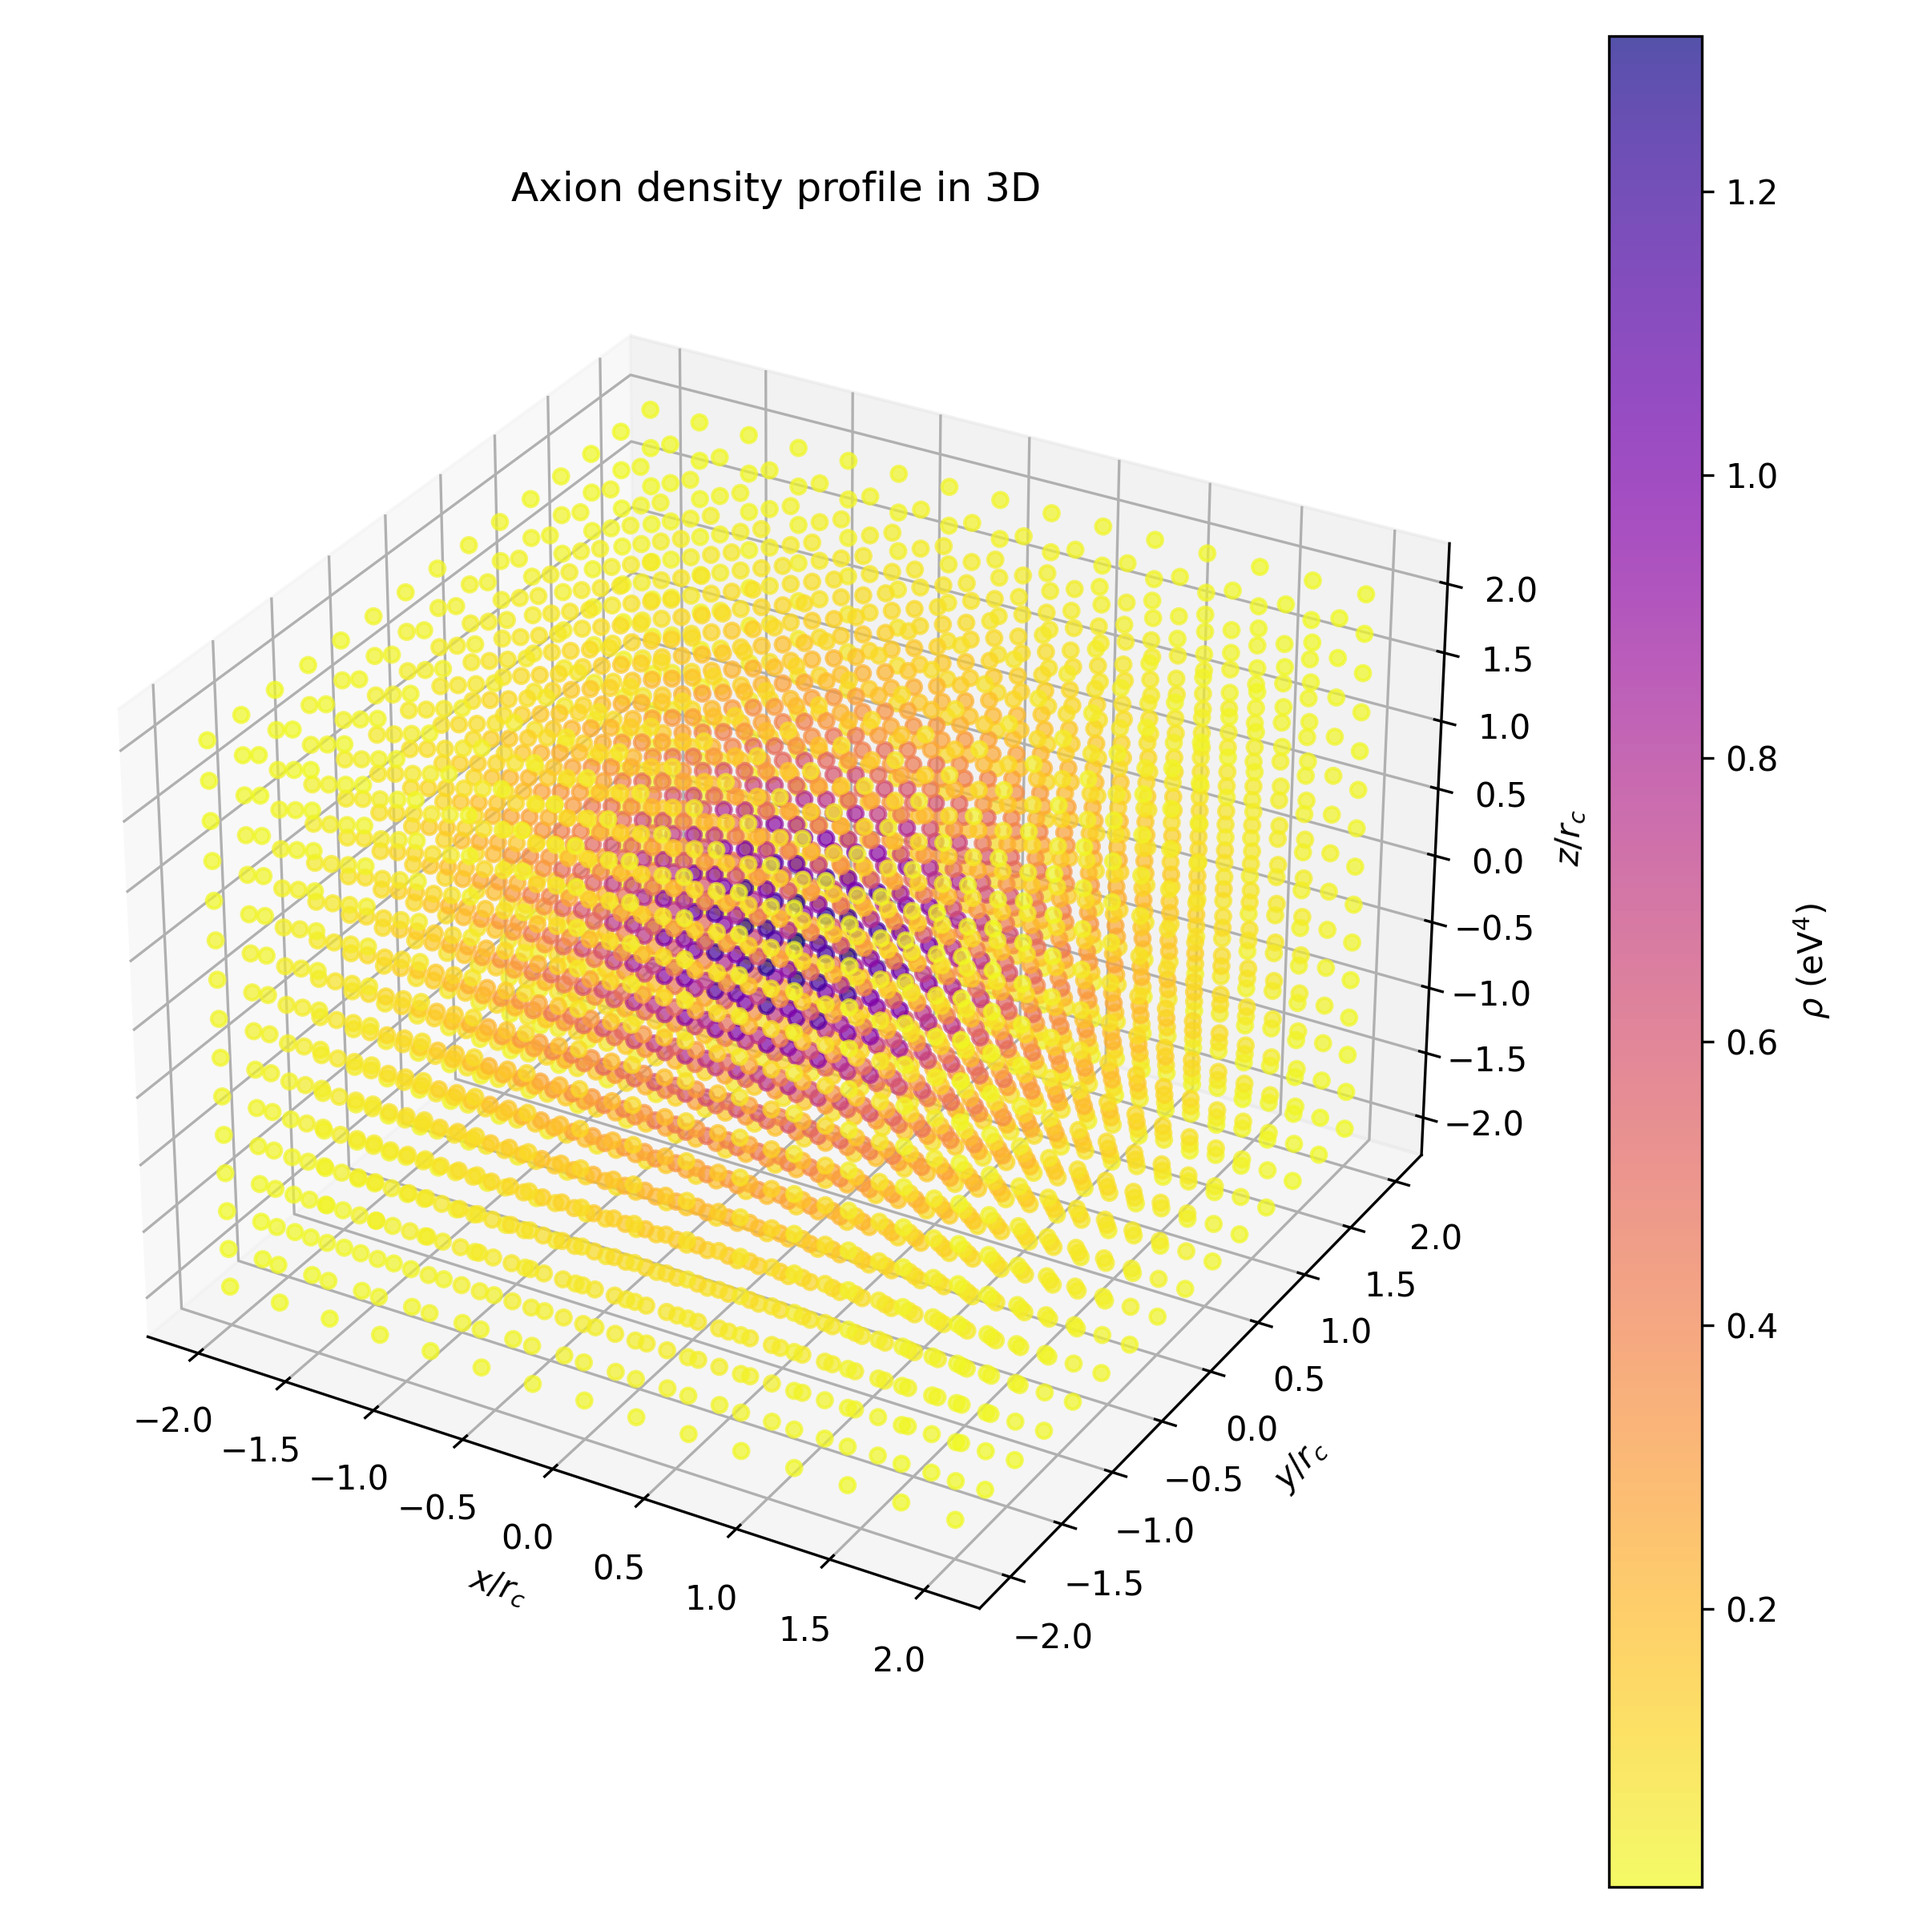
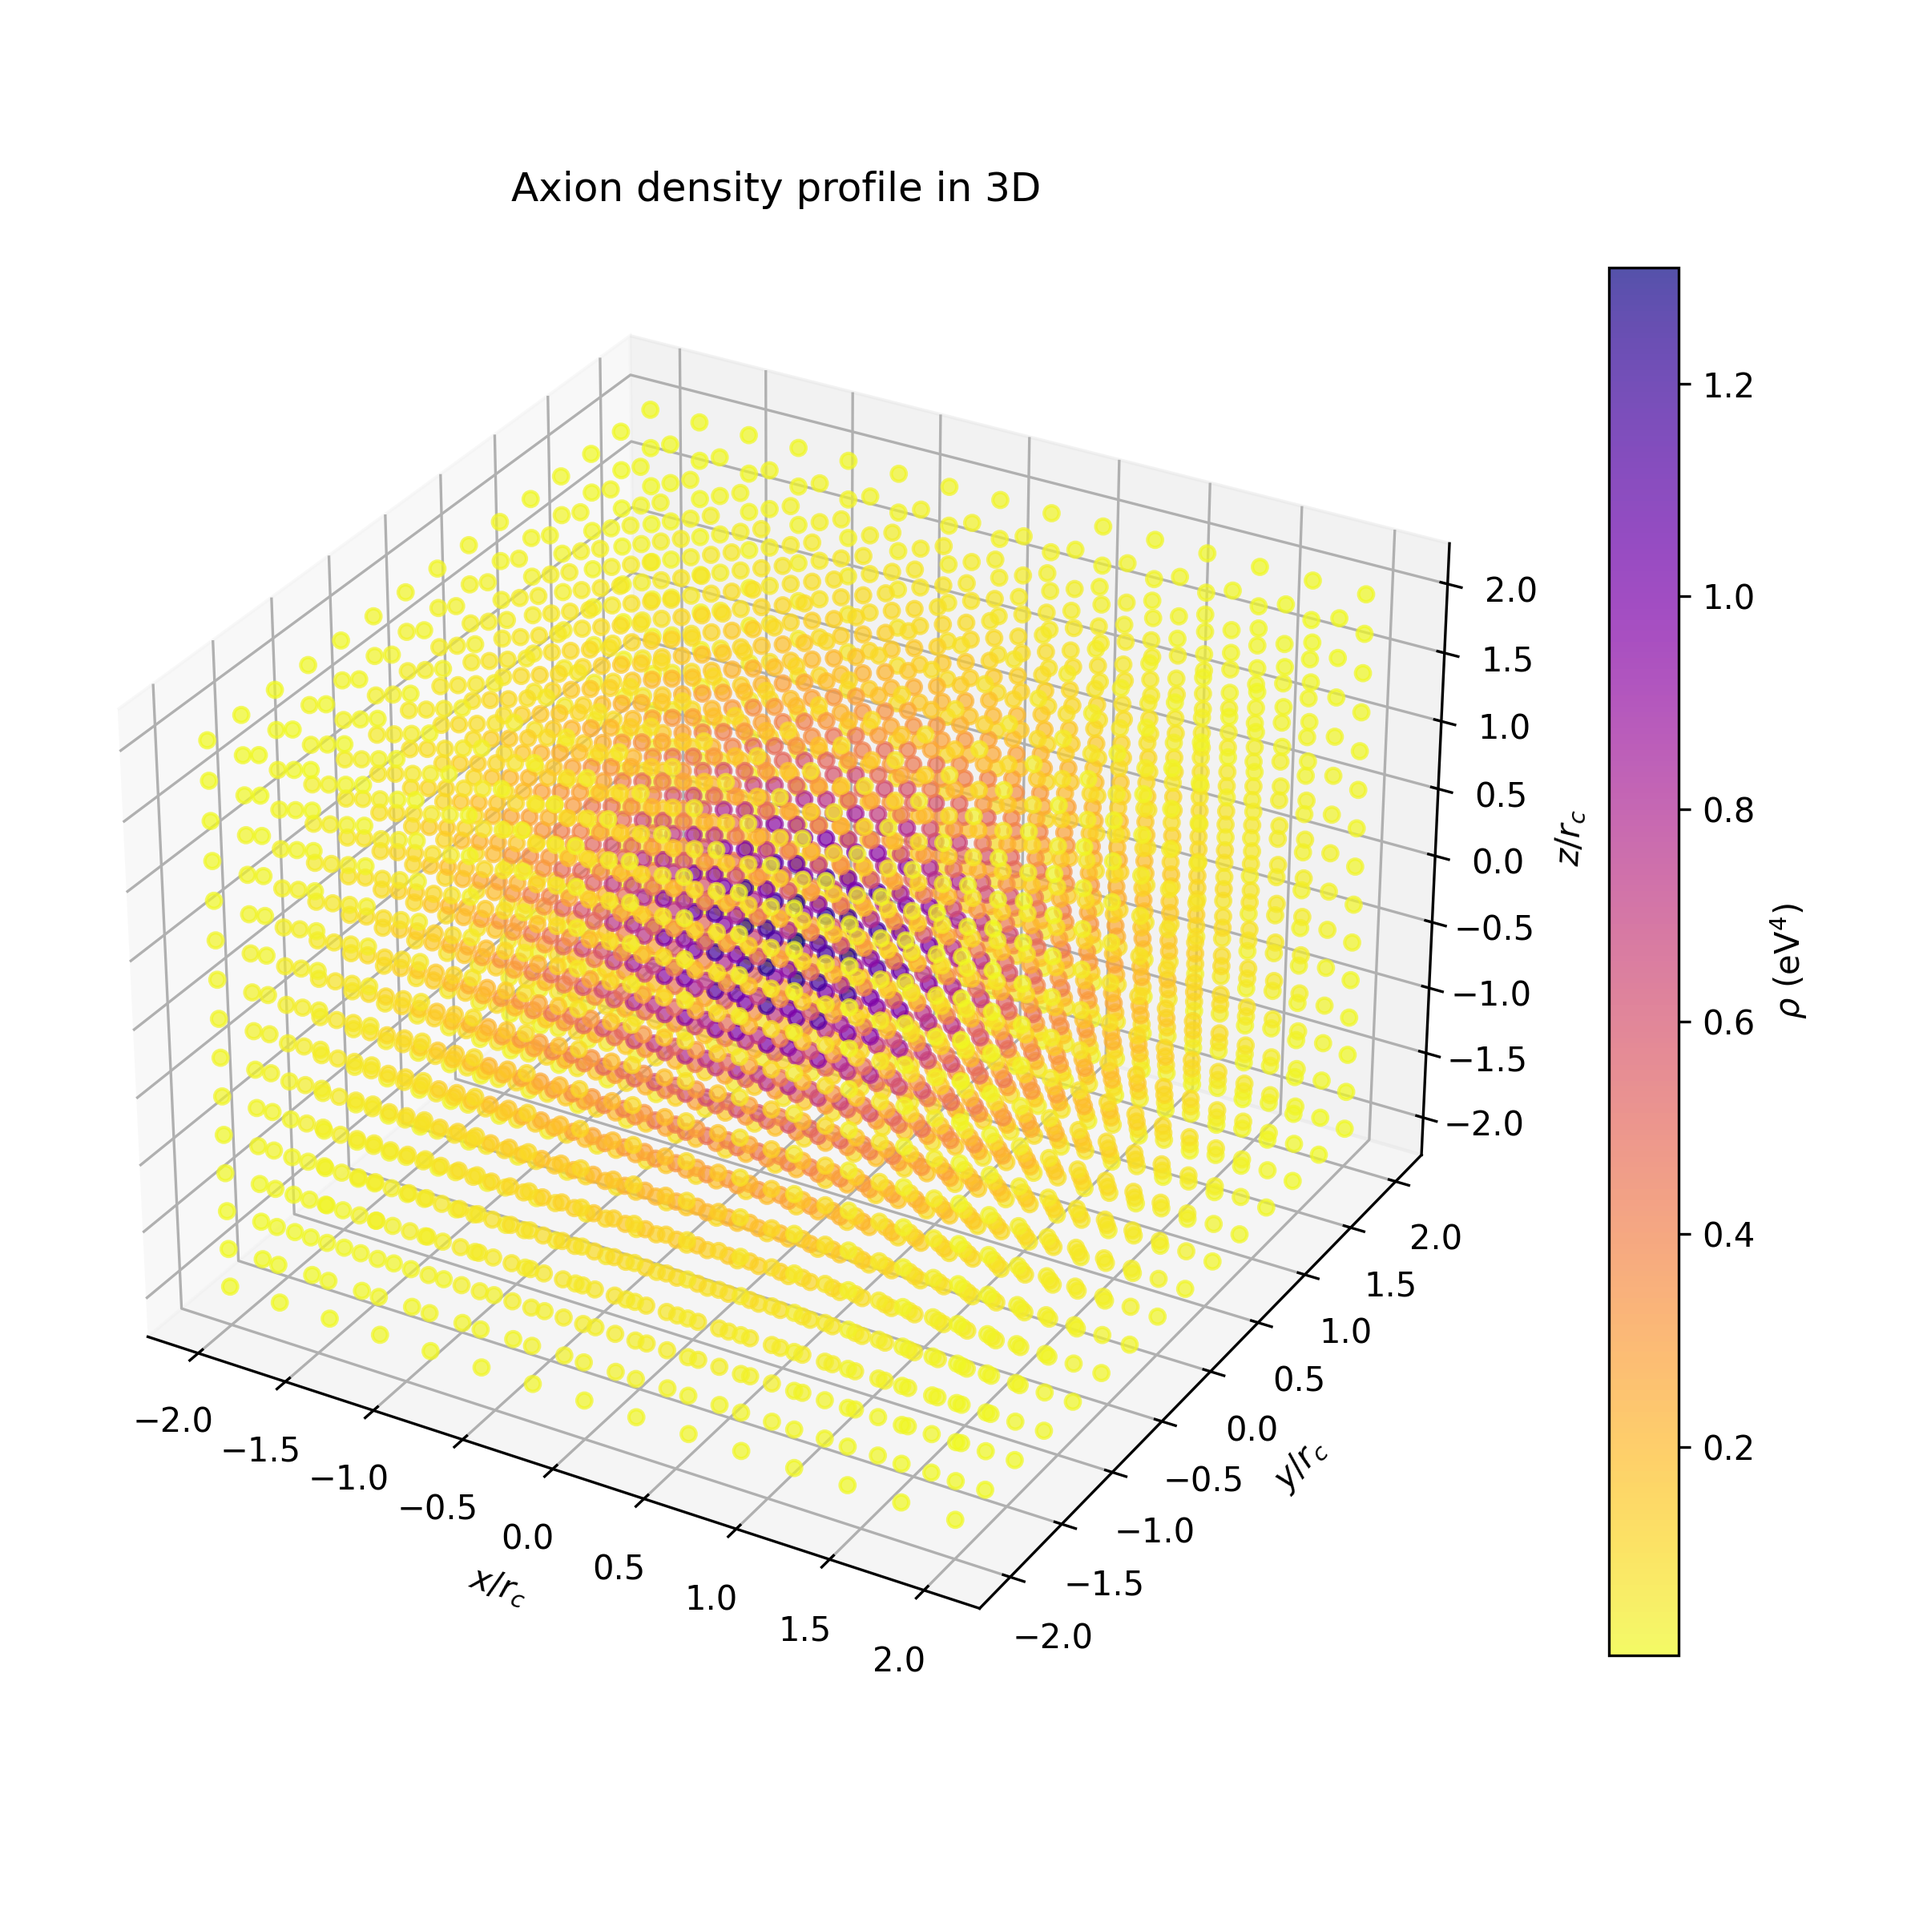
In progress

Changed region(s): [[0.8125, 0.0, 0.9688, 1.0]]

diff --git a/zeeman.py b/zeeman.py
@@ -521,7 +521,7 @@ def plot3D_data(xs, ys, zs, ws, xlabel, ylabel, zlabel, wlabel, title, figure_na
     scatter = ax.scatter(xs, ys, zs, c=ws, cmap=cmap, alpha=alpha, s=s)
 
     # Add a colorbar to the plot
-    cbar = plt.colorbar(scatter)
+    cbar = plt.colorbar(scatter, shrink=0.75)
     cbar.set_label(wlabel)
 
     # Set the axes labels
